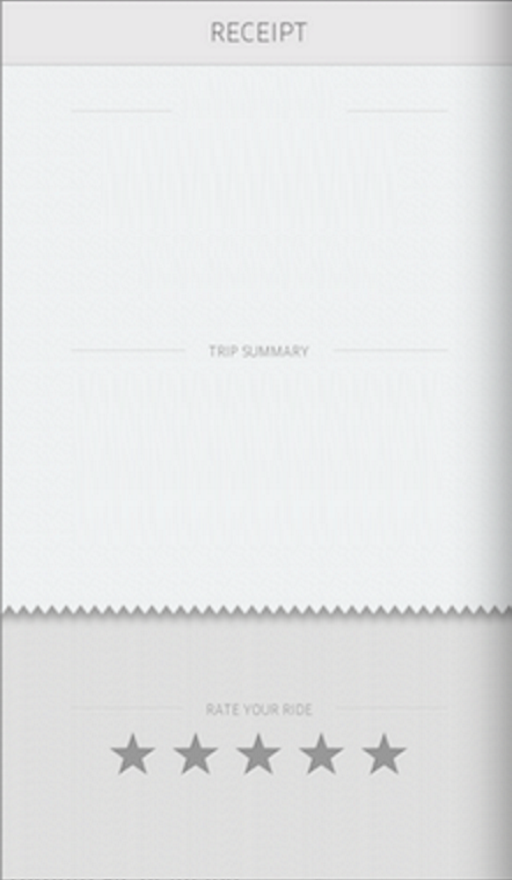
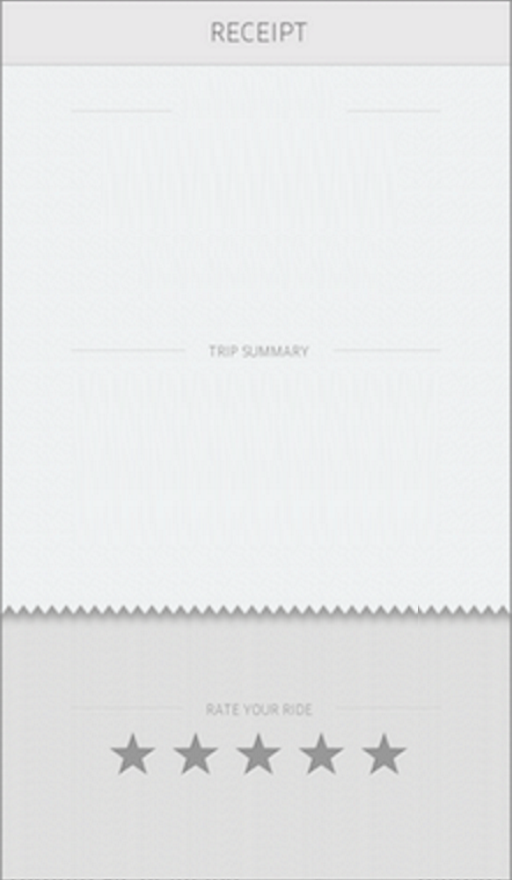
~ Added: Reviews to receipt

Changed region(s): [[0.8125, 0.0, 1.0, 1.0]]

diff --git a/GameJam2018/Assets/Scripts/Manager/ScoreManager.cs b/GameJam2018/Assets/Scripts/Manager/ScoreManager.cs
@@ -22,6 +22,26 @@ public class UberReview
 
 public class ScoreManager : MonoBehaviour
 {
+    public List<string> FunnyReview = new List<string>()
+    {
+        "Driver took off before my wife got in!",
+        "Why did the driver look nervous when we passed the policeman?",
+        "I've never seen someone so skillfully reverse-tailgait",
+        "I would have liked the driver to open the window a crack",
+        "Car smelt like space pizza",
+        "I found a space penny and dime in the space between the seats",
+        "Driver left my kids behind!",
+        "Driver hit a space rabbit. He had to swerve to get it.",
+        "Someone left their sandwich on the seat. It was not very good.",
+        "This is the worse Space-AirBnB I have ever stayed in.",
+        "SPACE-GOOGLE, LEAVE A REVIEW FOR THIS DRIVER",
+        "He drove the wrong way around Saturn's rings and then laughed.",
+        "Driver didn't even try to take me to my destination",
+        "Is being called a Glip Glop a good thing?" ,
+        "potato potato potato potato potato potato potato potato potato potato potato potato potato",
+        "Driver looked really stressed"
+    };
+
     public static ScoreManager Instance;
     public List<UberReview> Reviews = new List<UberReview>();
 
@@ -35,6 +55,7 @@ public class ScoreManager : MonoBehaviour
 
     public Text EarningsText;
     public Text PassangerText;
+    public Text ReviewText;
 
 
     public string WinMessage = "You Win";
@@ -79,7 +100,7 @@ public class ScoreManager : MonoBehaviour
     public static void EvaluateWinCondition()
     {
         float Payment = Mathf.Round(Random.Range(5, 15)) + (Random.Range(0, 99) / 100f);
-        UberReview newReview = new UberReview(UberRating, AlienAI.Instance.RacialName, Payment, string.Empty);
+        UberReview newReview = new UberReview(UberRating, AlienAI.Instance.RacialName, Payment, Instance.FunnyReview[Random.Range(0, Instance.FunnyReview.Count)]);
 
         Instance.Reviews.Add(newReview);
     }
@@ -87,7 +108,7 @@ public class ScoreManager : MonoBehaviour
     public void ShowReceiptScreen()
     {
         ReceiptScreen.gameObject.SetActive(true);
-
+        
         Instance.UI_Star1.gameObject.SetActive(UberRating > 4);
         Instance.UI_Star2.gameObject.SetActive(UberRating > 3);
         Instance.UI_Star3.gameObject.SetActive(UberRating > 2);
@@ -96,6 +117,7 @@ public class ScoreManager : MonoBehaviour
 
         Instance.PassangerText.text = Reviews[Reviews.Count - 1].Name;
         Instance.EarningsText.text = "$" + Reviews[Reviews.Count - 1].Payment;
+        Instance.ReviewText.text = Reviews[Reviews.Count - 1].Message;
     }
 
     public void HideReceiptScreen()
